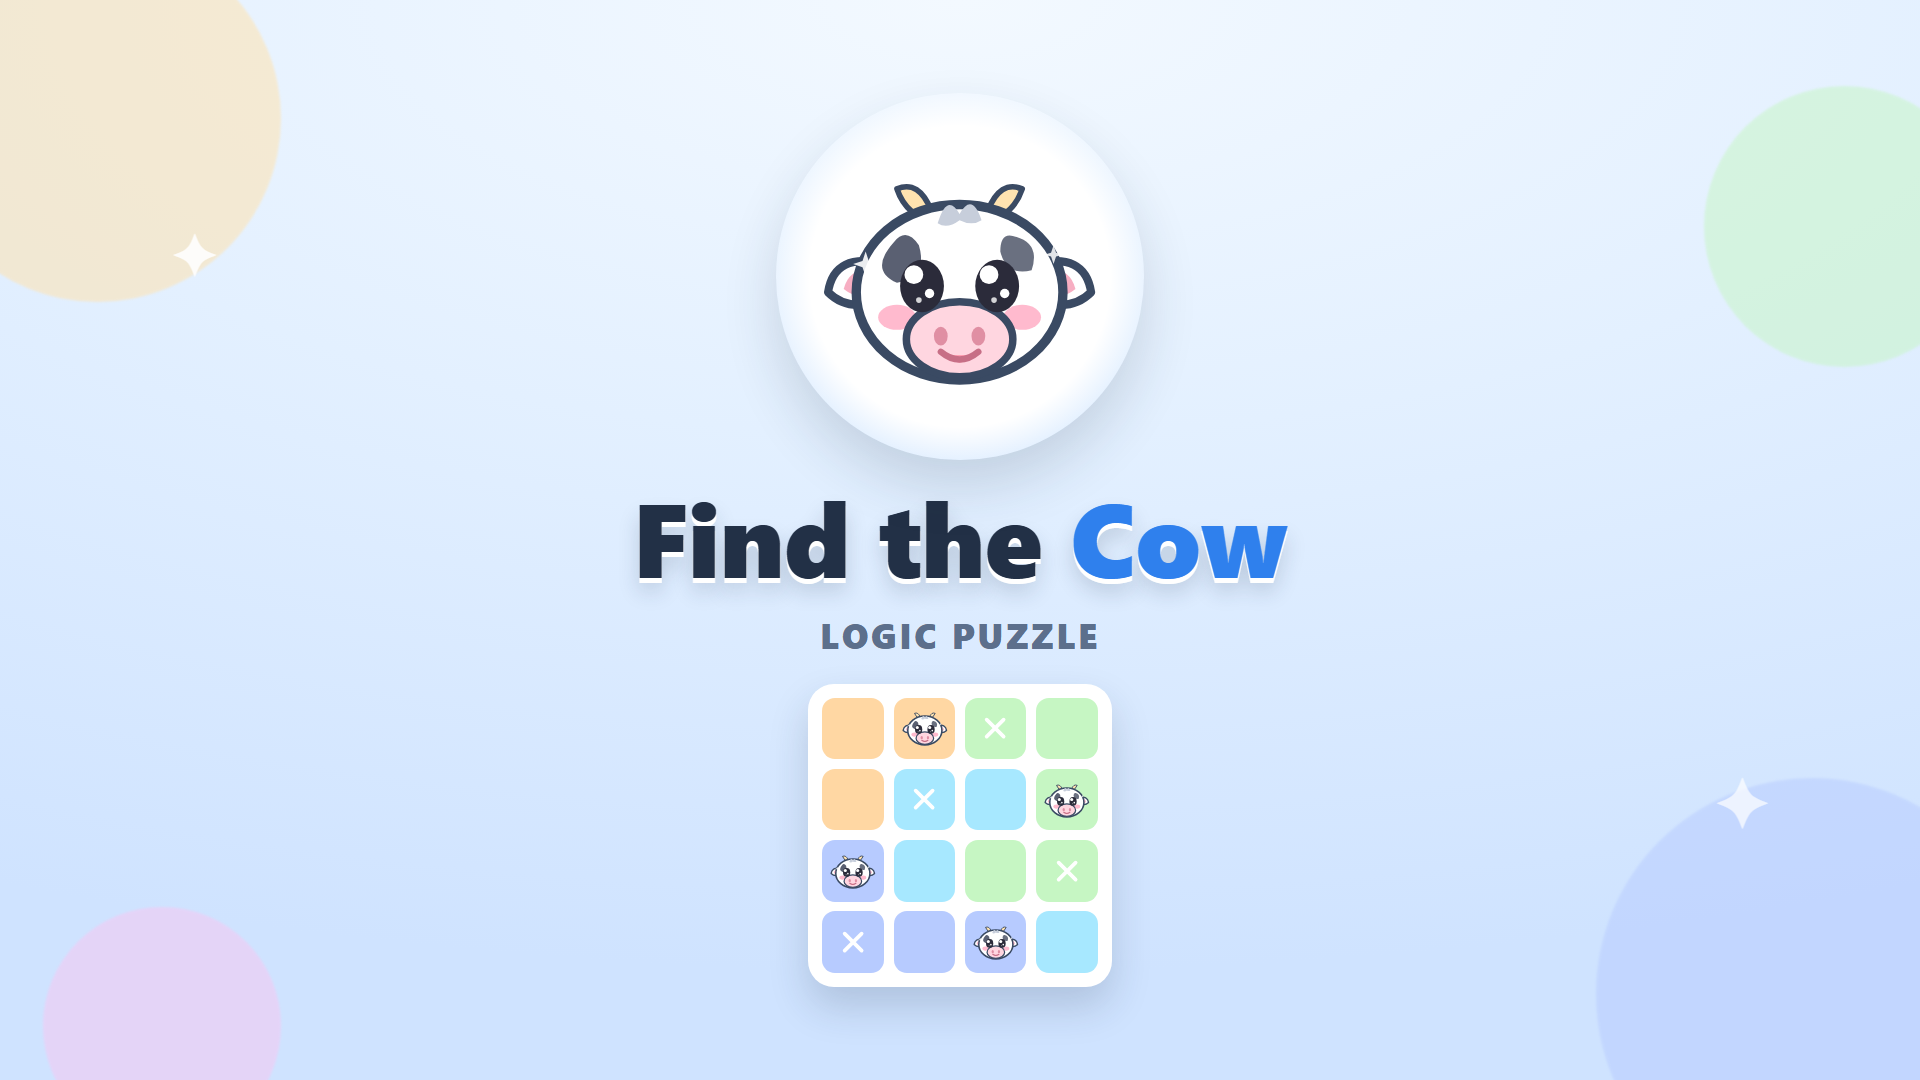
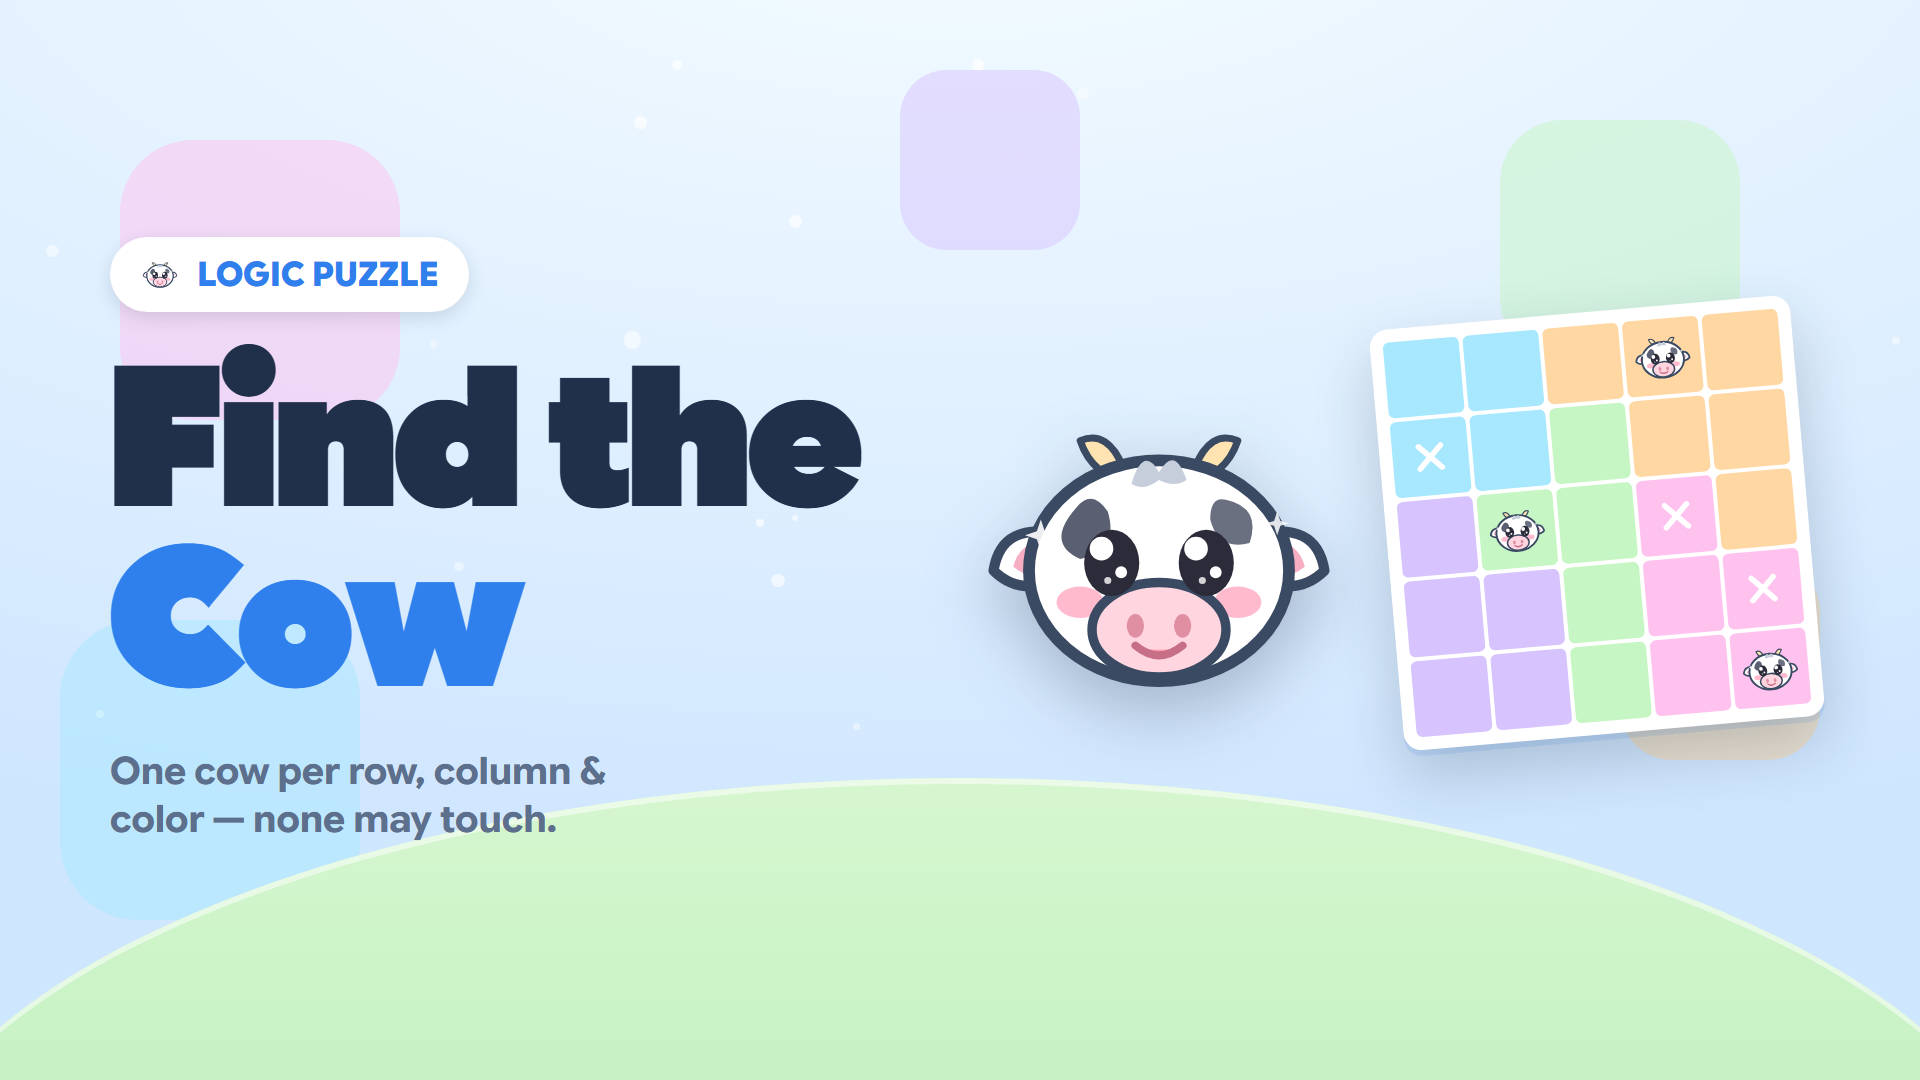
feat(findthecow): add Web Audio sound effects

diff --git a/game-HaND/findthecow/index.html b/game-HaND/findthecow/index.html
@@ -348,6 +348,10 @@
     30% { box-shadow: inset 0 0 0 40px rgba(47, 128, 237, .35); }
   }
 
+  /* Nút bật/tắt tiếng: đổi biểu tượng loa (on) ↔ loa gạch chéo (muted) */
+  #sound-btn.muted .snd-on { display: none; }
+  #sound-btn:not(.muted) .snd-off { display: none; }
+
   .hidden { display: none !important; }
 </style>
 
@@ -403,6 +407,16 @@
       <span class="tool-label" id="hint-label">Hint</span>
       <span class="tool-badge" id="hint-badge">3</span>
     </button>
+    <button class="tool" id="sound-btn" type="button">
+      <svg class="tool-ico" viewBox="0 0 100 100" aria-hidden="true">
+        <path fill="currentColor" d="M20 40 L36 40 L56 24 L56 76 L36 60 L20 60 Z"/>
+        <g class="snd-on" fill="none" stroke="currentColor" stroke-width="7" stroke-linecap="round">
+          <path d="M66 38 Q76 50 66 62"/><path d="M76 30 Q92 50 76 70"/>
+        </g>
+        <path class="snd-off" fill="none" stroke="currentColor" stroke-width="7" stroke-linecap="round" d="M70 40 L88 60 M88 40 L70 60"/>
+      </svg>
+      <span class="tool-label" id="sound-label">Sound</span>
+    </button>
   </div>
 
   <div class="toast" id="toast"></div>
@@ -429,7 +443,7 @@ const I18N = {
         rule1d: '1 cow per color',
         rule2d: 'Max 1 cow per row and column',
         rule3d: 'No adjacent cows (any direction)',
-        hintTool: 'Hint', adTool: 'Get hint',
+        hintTool: 'Hint', adTool: 'Get hint', soundTool: 'Sound',
         noHints: 'No hints left — get more', gotHint: '+1 hint added' },
   vi: { level: 'Màn', goal: 'Mỗi hàng, cột và màu đúng 1 con bò. Không con nào kề nhau.',
         ruleBroken: 'Phạm luật! −1 mạng', solved: 'Giải xong! 🐄', gameOver: 'Hết mạng rồi',
@@ -438,7 +452,7 @@ const I18N = {
         rule1d: '1 con bò mỗi màu',
         rule2d: 'Tối đa 1 con bò mỗi hàng và cột',
         rule3d: 'Các con bò không được đứng cạnh nhau (mọi hướng)',
-        hintTool: 'Gợi ý', adTool: 'Nhận gợi ý',
+        hintTool: 'Gợi ý', adTool: 'Nhận gợi ý', soundTool: 'Âm thanh',
         noHints: 'Hết gợi ý — nhận thêm', gotHint: '+1 gợi ý' },
   'zh-Hans': { level: '关卡', goal: '每行、每列、每色恰好一头牛，且互不相邻。',
         ruleBroken: '违规！−1 条命', solved: '完成！🐄', gameOver: '没有生命了' },
@@ -797,6 +811,91 @@ const HEART_SVG =
   '6.86-8.55 11.54L12 21.35z"/></svg>';
 
 /* =====================================================================
+ * 4b. Âm thanh (WebAudio tổng hợp — KHÔNG cần file, tự sinh nốt)
+ *   Chỉ hiệu ứng (SFX): đánh/tẩy X, đặt bò đúng/sai, gợi ý, thắng, hết mạng.
+ *   Có nút bật/tắt (lưu qua saveData). Mở khoá ở lần chạm đầu (autoplay mobile).
+ *   Phong cách khớp game anh em skydom: master + limiter, nốt tổng hợp vui nhộn.
+ * ===================================================================== */
+const Sound = (function () {
+  let ctx = null, master = null, muted = false;
+  const VOL = 0.9;
+  const mtof = (m) => 440 * Math.pow(2, (m - 69) / 12);
+
+  function ensure() {
+    if (ctx) return;
+    try {
+      const AC = window.AudioContext || window.webkitAudioContext;
+      if (!AC) return;
+      ctx = new AC();
+      master = ctx.createGain(); master.gain.value = muted ? 0 : VOL;
+      const comp = ctx.createDynamicsCompressor();   // limiter: rõ & vui nhưng không vỡ
+      comp.threshold.value = -10; comp.knee.value = 22; comp.ratio.value = 5;
+      comp.attack.value = 0.003; comp.release.value = 0.25;
+      master.connect(comp); comp.connect(ctx.destination);
+    } catch (e) { ctx = null; }
+  }
+  function resume() { if (ctx && ctx.state === 'suspended') ctx.resume(); }
+  function suspend() { if (ctx && ctx.state === 'running') ctx.suspend(); }
+  function setMuted(m) { muted = !!m; if (master) master.gain.value = muted ? 0 : VOL; }
+  function isMuted() { return muted; }
+
+  // Nốt tổng hợp: có thể trượt cao độ (freqTo) và lọc thông thấp (lp)
+  function tone(o) {
+    if (!ctx || muted) return;
+    const t0 = ctx.currentTime + (o.delay || 0);
+    const dur = o.dur || 0.12;
+    const osc = ctx.createOscillator(), g = ctx.createGain();
+    osc.type = o.type || 'sine';
+    osc.frequency.setValueAtTime(o.freq, t0);
+    if (o.freqTo) osc.frequency[o.slide === 'lin' ? 'linearRampToValueAtTime' : 'exponentialRampToValueAtTime'](o.freqTo, t0 + dur);
+    const peak = o.gain != null ? o.gain : 0.2;
+    g.gain.setValueAtTime(0.0001, t0);
+    g.gain.exponentialRampToValueAtTime(peak, t0 + (o.attack || 0.005));
+    g.gain.exponentialRampToValueAtTime(0.0001, t0 + dur);
+    let node = osc;
+    if (o.lp) { const f = ctx.createBiquadFilter(); f.type = 'lowpass'; f.frequency.value = o.lp; osc.connect(f); node = f; }
+    node.connect(g); g.connect(master);
+    osc.start(t0); osc.stop(t0 + dur + 0.03);
+  }
+
+  return {
+    ensure, resume, suspend, setMuted, isMuted,
+    // Đánh dấu X — "tick" gọn khô
+    mark() { ensure(); tone({ freq: 330, freqTo: 240, dur: 0.05, type: 'square', gain: 0.12, slide: 'lin', lp: 1800 }); },
+    // Tẩy X — tick trầm hơn
+    erase() { ensure(); tone({ freq: 220, freqTo: 180, dur: 0.05, type: 'square', gain: 0.1, slide: 'lin', lp: 1400 }); },
+    // Đặt bò ĐÚNG — "boop-beep" trưởng vui (bậc 3) + chút "moo" ấm ở trầm
+    place() {
+      ensure();
+      tone({ freq: mtof(72), dur: 0.12, type: 'sine', gain: 0.22, attack: 0.01 });
+      tone({ freq: mtof(76), dur: 0.16, type: 'sine', gain: 0.2, delay: 0.09, attack: 0.01 });
+      tone({ freq: mtof(48), freqTo: mtof(45), dur: 0.2, type: 'triangle', gain: 0.14, delay: 0.02, lp: 700 });
+    },
+    // Đặt SAI (mất mạng) — buzz đi xuống, hơi gắt
+    wrong() {
+      ensure();
+      tone({ freq: 220, freqTo: 110, dur: 0.3, type: 'sawtooth', gain: 0.16, slide: 'exp', lp: 1100 });
+    },
+    // Gợi ý — lấp lánh đi lên
+    hint() {
+      ensure();
+      [79, 84, 88].forEach((m, i) => tone({ freq: mtof(m), dur: 0.1, type: 'triangle', gain: 0.16, delay: i * 0.06, lp: 4000 }));
+    },
+    // Thắng màn — kèn chúc mừng (hợp âm rải trưởng đi lên) + "moo"
+    win() {
+      ensure();
+      [72, 76, 79, 84].forEach((m, i) => tone({ freq: mtof(m), dur: 0.3, type: 'sine', gain: 0.22, delay: i * 0.1, lp: 3000, attack: 0.015 }));
+      tone({ freq: mtof(48), freqTo: mtof(50), dur: 0.5, type: 'triangle', gain: 0.16, delay: 0.12, lp: 800 });
+    },
+    // Hết mạng — chuỗi nốt đi xuống buồn
+    over() {
+      ensure();
+      [67, 63, 60, 55].forEach((m, i) => tone({ freq: mtof(m), dur: 0.34, type: 'triangle', gain: 0.2, delay: i * 0.14, lp: 1800 }));
+    },
+  };
+})();
+
+/* =====================================================================
  * 5. Render level
  * ===================================================================== */
 function renderHearts() {
@@ -938,6 +1037,7 @@ function placeCow(r, c) {
     flashBad([[r, c]]);
     // ô đặt trở về trạng thái trước (giữ X nếu có)
     renderCell(r, c);
+    Sound.wrong();
     loseLife();
     if (!dead) showToast(t('ruleBroken'));
     return;
@@ -949,6 +1049,7 @@ function placeCow(r, c) {
   cells[r][c].classList.add('place');
   updateProgress();
   if (cowCount === N) winLevel();
+  else Sound.place();
 }
 
 /* ── Điều khiển ──────────────────────────────────────────────────────
@@ -987,6 +1088,7 @@ function onDown(r, c, pointerId) {
   painting = true; paintPointerId = pointerId; paintedSet.clear();
   paintMode = state[r][c] === 1 ? 2 : 1;
   applyPaint(r, c);
+  if (paintMode === 1) Sound.mark(); else Sound.erase();   // 1 tiếng/lần chạm (không kêu dồn khi kéo)
 }
 
 function onMoveTo(r, c, pointerId) {
@@ -1008,6 +1110,7 @@ function isNative() {
 
 function winLevel() {
   solved = true;
+  Sound.win();
   persist();
   // reveal nhẹ: bò nhảy ăn mừng
   for (let r = 0; r < N; r++) for (let c = 0; c < N; c++) {
@@ -1025,6 +1128,7 @@ function winLevel() {
 
 function gameOver() {
   dead = true;
+  Sound.over();
   showToast(t('gameOver'));
   setTimeout(() => {
     sendMessage('game_result', { result: 'lose', showModal: true });
@@ -1093,6 +1197,7 @@ function giveHint() {
   cells[r][c].classList.add('place', 'hint-glow');
   updateProgress();
   if (cowCount === N) winLevel();
+  else Sound.hint();
   return true;
 }
 
@@ -1109,7 +1214,7 @@ function useHint() {
   if (giveHint()) { renderHintBadge(); persist(); showToast(t('gotHint')); }
 }
 
-function persist() { saveData({ hints: hints }); }
+function persist() { saveData({ hints: hints, muted: Sound.isMuted() }); }
 function loadSaved() {
   let raw = typeof window.data === 'string' ? window.data
     : new URLSearchParams(location.search).get('data');
@@ -1117,6 +1222,7 @@ function loadSaved() {
   try {
     const d = JSON.parse(raw);
     if (typeof d.hints === 'number') hints = d.hints;
+    if (typeof d.muted === 'boolean') Sound.setMuted(d.muted);
   } catch (e) { /* ignore */ }
 }
 
@@ -1155,7 +1261,17 @@ document.getElementById('restart-btn').addEventListener('click', (e) => {
 document.getElementById('hint-btn').addEventListener('click', (e) => {
   e.stopPropagation(); useHint();
 });
-window.onAppPause = function () { /* game tĩnh — no-op */ };
+const soundBtn = document.getElementById('sound-btn');
+function renderSoundBtn() { soundBtn.classList.toggle('muted', Sound.isMuted()); }
+soundBtn.addEventListener('click', (e) => {
+  e.stopPropagation();
+  Sound.ensure(); Sound.resume();
+  Sound.setMuted(!Sound.isMuted());
+  renderSoundBtn();
+  persist();                               // lưu lựa chọn tắt/bật tiếng
+});
+window.onAppPause = function () { Sound.suspend(); };     // ra nền → tạm dừng audio
+window.onAppResume = function () { Sound.resume(); };
 window.onNextLevel = function () {
   loadLevel(currentLevelIdx + 1);   // vô hạn màn
 };
@@ -1171,6 +1287,7 @@ function applyStaticI18n() {
   document.getElementById('rule2-d').textContent = t('rule2d');
   document.getElementById('rule3-d').textContent = t('rule3d');
   document.getElementById('hint-label').textContent = t('hintTool');
+  document.getElementById('sound-label').textContent = t('soundTool');
   document.getElementById('p-ico').innerHTML = catInner;      // icon tiến độ = bò
   document.getElementById('hint-ico').innerHTML = catInner;   // nút gợi ý = bò
 }
@@ -1184,10 +1301,16 @@ function boot() {
   applyUiFont(LANG);
   applyStatusBarPad();
   applyStaticI18n();
-  loadSaved();                       // khôi phục điểm & lượt gợi ý (nếu có)
+  loadSaved();                       // khôi phục lượt gợi ý & lựa chọn tắt tiếng (nếu có)
+  renderSoundBtn();
   currentLevelIdx = getInitialLevelIdx();
   loadLevel(currentLevelIdx);
 }
+
+// Mở khoá AudioContext ở lần chạm đầu (chính sách autoplay mobile) — resume sau pause.
+function unlockAudio() { Sound.ensure(); Sound.resume(); }
+window.addEventListener('pointerdown', unlockAudio);
+window.addEventListener('touchstart', unlockAudio, { passive: true });
 
 window.addEventListener('resize', () => { computeSizing(); syncWidths(); });
 // Font web tải xong có thể đổi chiều cao các khối → tính lại cỡ bàn cho chuẩn.

diff --git a/game-HaND/findthecow/README.md b/game-HaND/findthecow/README.md
@@ -1,0 +1,109 @@
+# Find The Cow — HaND
+
+> **Color-block logic puzzle (chủ đề bò)** | HTML5 single-file | Level vô hạn, câu đố sinh ngẫu nhiên
+
+## Thông tin game
+
+| Trường | Giá trị |
+|---|---|
+| **Package** | `com.falcon.findthecow` |
+| **Engine / Version** | HTML5 single-file · 1.0.0 |
+| **Category** | PUZZLE |
+| **Loại** | Game **có level** — vô hạn, thắng/thua theo màn |
+
+## Gameplay
+
+- Lưới **N×N** chia thành **N vùng màu**. Đặt **N con bò** sao cho **mỗi hàng, mỗi
+  cột và mỗi vùng màu có ĐÚNG 1 con bò**; hai con bò **không được kề nhau** (kể cả
+  chéo).
+- Mỗi màn có **một lời giải duy nhất** và **giải được bằng suy luận** từng bước
+  (không đoán mò). Người chơi phải đặt bò **đúng y hệt** lời giải mới thắng.
+- **3 mạng**: đặt bò vào ô **không** thuộc lời giải → nháy đỏ, **−1 mạng**, không cho
+  đặt. Hết mạng → thua màn.
+- **Cỡ bàn tăng dần**: `LEVEL_RAMP = [5,5,5,6,6,7,7,8,8,9,9,10]` — 3 màn đầu 5×5 dễ,
+  rồi lớn dần tới **10×10** (tối đa 10 màu/màn) và giữ nguyên.
+
+### Điều khiển
+
+- **Nhấp 1 lần / chạm** = đánh dấu **X** (nhấp lại để bỏ X).
+- **Giữ & kéo** = đánh (hoặc tẩy) **X nhiều ô** liền.
+- **Nhấp/chạm ĐÔI** = **đặt bò** — đặt rồi **KHÓA**, không gỡ được.
+
+### Sinh câu đố — duy nhất & suy luận được
+
+Nhanh ở mọi cỡ (median < 0.1ms tới 10×10), khác kiểu sinh-rồi-thử chậm với N lớn.
+
+- **`makeSolution(N)`** — backtracking dựng một nghiệm hợp lệ (1 bò/hàng/cột, không
+  kề nhau).
+- **`growRegions(N, sol)`** — vẽ vùng theo **thứ tự mở** con bò: mỗi vùng chỉ "ăn" ô
+  đã bị loại (chết) TRƯỚC khi con bò của vùng tới lượt → con bò luôn bị **ép buộc**
+  (vùng chỉ còn 1 ứng viên). Nuôi **cân bằng** (vùng nhỏ nhất lớn thêm) rồi vùng của
+  con bò mở cuối dọn nốt → lấp kín & liền mạch.
+- **`solvableByLogic(N, region)`** — xác nhận câu đố giải được thuần suy luận: lặp
+  đặt bò ở hàng/cột/vùng nào chỉ còn đúng 1 ứng viên, loại ứng viên liên quan, tới
+  khi đủ N bò. Nhờ vậy câu đố **vừa duy nhất vừa không phải đoán**.
+
+### Gợi ý (Hint)
+
+- Bắt đầu **3 lượt** từ màn 1 (lưu qua `save_data`).
+- Mỗi lượt đặt giúp **1 con bò đúng** (gỡ các bò đặt sai đang xung đột) — **không mất
+  mạng**.
+- **Còn lượt** → dùng & trừ 1; **hết lượt** → badge đổi thành `▶`, bấm bắn event
+  `ads` (app hiện quảng cáo) rồi tặng 1 gợi ý dùng luôn.
+
+### Âm thanh (Web Audio — tổng hợp, không cần file)
+
+Module `Sound` tự sinh nốt bằng `AudioContext` (khớp phong cách game anh em
+**skydom**: master gain + limiter). Hiệu ứng cho từng sự kiện:
+
+| Sự kiện | Âm |
+|---|---|
+| Đánh / tẩy X | "tick" gọn (1 tiếng/lần chạm, không kêu dồn khi kéo) |
+| Đặt bò đúng | "boop-beep" trưởng vui + "moo" ấm ở trầm |
+| Đặt sai (−1 mạng) | buzz đi xuống |
+| Gợi ý | lấp lánh đi lên |
+| Thắng màn | kèn chúc mừng (hợp âm rải) + "moo" |
+| Hết mạng | chuỗi nốt đi xuống buồn |
+
+- **Nút bật/tắt tiếng** trong thanh công cụ (loa ↔ loa gạch chéo); lựa chọn **lưu qua
+  `save_data`** (`{ muted }`).
+- **Mở khoá AudioContext** ở lần chạm đầu (autoplay mobile); `onAppPause` tạm dừng,
+  `onAppResume` phát tiếp.
+
+## Tuân thủ quy ước chung
+
+- ✅ **game-common.md** — `sendMessage` 5 trường, level 1-indexed; `game_result`
+  win/lose + `showModal:true`; `quit`; nút **Restart** nội bộ không bắn event; `ads`
+  khi hết lượt gợi ý; `save_data` chỉ **data nhẹ** (`{ hints, muted }`); đọc đủ
+  `statusBarHeight`/`currentLevel`/`data`/`language` đúng thứ tự ưu tiên;
+  `waitForNativeInjection`; callback native `onAppPause`/`onNextLevel`/
+  `onRetryLevel` (+ `onAppResume` cho audio); font Google Sans Flex qua `--ui-font`
+  (ngoài Latinh → `system-ui`); reset CSS + tắt tap-highlight.
+- ✅ **popup-common.md** — **không tự vẽ modal kết quả** (app lo popup nhờ
+  `showModal:true`); trong game chỉ có **toast** báo thoáng (phạm luật / giải xong /
+  hết mạng).
+- ✅ **zip-common.md** — single-file `index.html`, `game.json` đủ field (5 tags,
+  packageName reverse-DNS), 3 cover đúng kích thước 1920×1080 / 800×1200 / 800×800.
+- ✅ **i18n** — inline trong `index.html`, fallback `en`. Đủ chuỗi cho **en/vi**;
+  các ngôn ngữ khác (zh-Hans, zh-Hant, ja, ko, es, pt-BR, fr, de, ru, tr, id) dịch
+  các chuỗi chính (mục tiêu, phạm luật, thắng, thua) — phần còn lại rơi về `en`.
+- ℹ️ **Level vô hạn → không có màn cuối, không bắn `victory`**; thắng luôn gửi
+  `game_result win` (`showModal:true`).
+- ℹ️ Mở bằng browser thường (không có `ReactNativeWebView`): tự sang màn kế sau khi
+  thắng (~750ms) / tự chơi lại sau khi thua (~900ms) để playtest — trong app thật
+  không chạy nhánh này.
+
+## Lưu trữ
+
+- **`save_data` (native)** — chỉ data nhẹ: `{ hints, muted }`. Ghi khi dùng gợi ý,
+  bật/tắt tiếng, thắng màn.
+- **Không dùng localStorage** — câu đố sinh mới mỗi màn; Restart/Retry dùng lại đúng
+  đề qua `puzzleCache` (giữ trong bộ nhớ, không cần persist ván dở).
+
+## 📋 Backlog
+
+- [ ] Nhạc nền (BGM) nhẹ, bật/tắt chung nút Sound.
+- [ ] Hiệu ứng ăn mừng (confetti) khi thắng màn.
+- [ ] Dịch đủ 23 ngôn ngữ (hiện đủ en/vi, còn lại một phần).
+- [ ] Chế độ "no-mistake" / tính sao theo số mạng còn lại → meta progression qua
+  `save_data`.